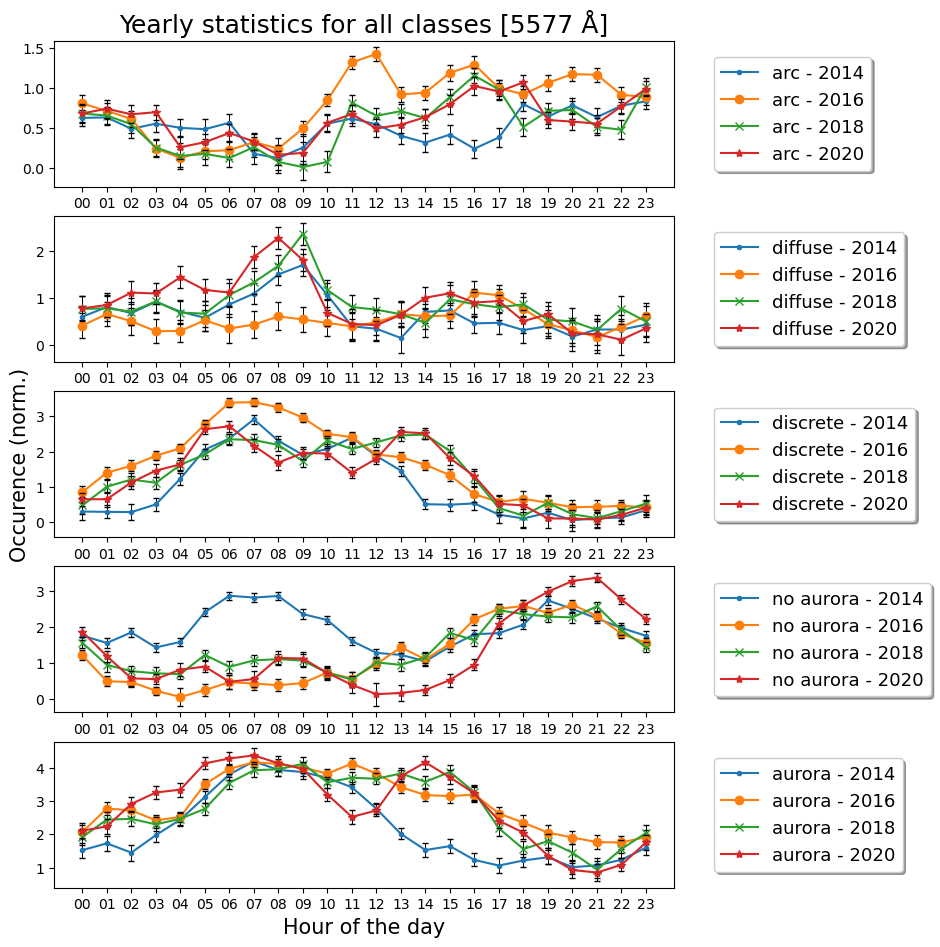
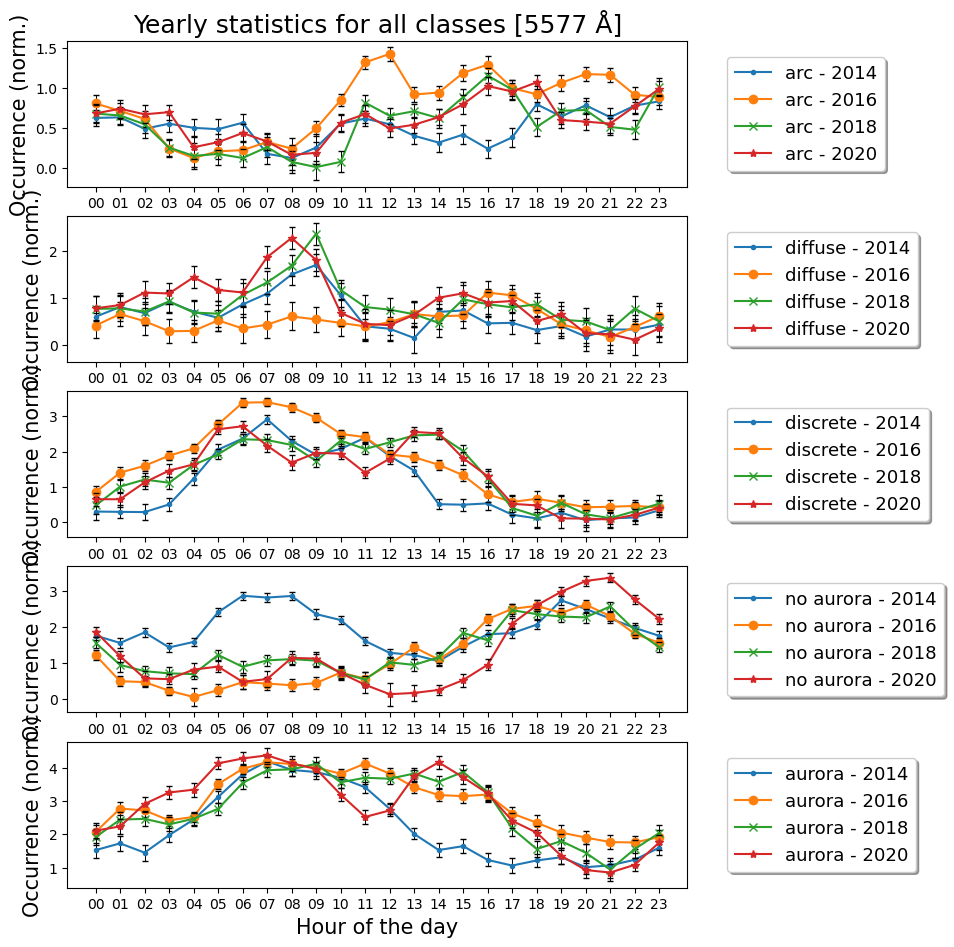
B4

diff --git a/stats_on_predictions.py b/stats_on_predictions.py
@@ -694,7 +694,7 @@ def sub_plots_Bz(year, wl, a_less, arc, diff, disc, neg, pos, error_list, T_Auro
     #plt.text(-19, 0.13, 'Max: {:.1f}, Min: {:.1f}'.format(np.max(pos[1][1]), np.min(neg[1][1])), fontsize = 17, color='C1')
     plt.axvline(x=0, ls='--', color='lightgrey')
     #plt.plot(hours, T_arc_N, shape, label='arc - '+year)
-    plt.ylabel(r"Occurence (norm.)", fontsize=22)    # 15
+    plt.ylabel(r"Occurrence (norm.)", fontsize=22)    # 15
     plt.ylim(-0.01, 0.30)
     plt.xticks(fontsize=19)
     plt.yticks(fontsize=19) # 11
@@ -725,7 +725,7 @@ def sub_plots_Bz(year, wl, a_less, arc, diff, disc, neg, pos, error_list, T_Auro
     plt.axvline(x=0, ls='--', color='lightgrey')
     #plot(hours, T_diff_N, 'diffuse', year, month=None, monthly=False)
     #plt.plot(hours, T_diff_N, shape, label='diffuse - '+year)
-    plt.ylabel(r"Occurence (norm.)", fontsize=22)    # 15
+    plt.ylabel(r"Occurrence (norm.)", fontsize=22)    # 15
     plt.ylim(-0.01, 0.30)
     plt.xticks(fontsize=19)
     plt.yticks(fontsize=19) # 11
@@ -754,7 +754,7 @@ def sub_plots_Bz(year, wl, a_less, arc, diff, disc, neg, pos, error_list, T_Auro
     plt.axvline(x=0, ls='--', color='lightgrey')
     #plot(hours, T_disc_N, 'discrete', year, month=None, monthly=False)
     #plt.plot(hours, T_disc_N, shape, label='discrete - '+year)
-    plt.ylabel(r"Occurence (norm.)", fontsize=22)    # 15
+    plt.ylabel(r"Occurrence (norm.)", fontsize=22)    # 15
     plt.ylim(-0.01, 0.30)
     plt.xticks(fontsize=19)
     plt.yticks(fontsize=19) # 11
@@ -785,7 +785,7 @@ def sub_plots_Bz(year, wl, a_less, arc, diff, disc, neg, pos, error_list, T_Auro
     #plot(hours, T_c_N, 'no aurora', year, month=None, monthly=False, axis=True)
     #plt.plot(hours, T_c_N, shape, label='no aurora - '+year)
     #plt.xlabel("Hour of the day", fontsize=13)
-    plt.ylabel(r"Occurence (norm.)", fontsize=22)    # 15
+    plt.ylabel(r"Occurrence (norm.)", fontsize=22)    # 15
     plt.ylim(-0.01, 0.30)
     plt.xticks(fontsize=19)
     plt.yticks(fontsize=19) # 11
@@ -1151,7 +1151,7 @@ def sub_plots(year, wl, hours, T_c_N, T_arc_N, T_diff_N, T_disc_N, error, T_Auro
     plt.plot(hours, T_arc_N, shape, label='arc - '+year)
     e = error[1]/2  # For 1.5 lim
     plt.errorbar(hours, T_arc_N, yerr=e, fmt='none', ecolor='k', elinewidth=0.7, capsize=2)
-    plt.ylabel(r"Occurence (norm.)", fontsize=15)
+    plt.ylabel(r"Occurrence (norm.)", fontsize=15)
     #plt.ylim(-0.2, 3)
     plt.legend(fontsize=13, bbox_to_anchor = (1.05, 0.95), shadow=True) #, ncol=2
     #plot(hours, T_arc_N, 'arc', year, month=None, monthly=False)
@@ -1160,7 +1160,7 @@ def sub_plots(year, wl, hours, T_c_N, T_arc_N, T_diff_N, T_disc_N, error, T_Auro
     #plot(hours, T_diff_N, 'diffuse', year, month=None, monthly=False)
     plt.plot(hours, T_diff_N, shape, label='diffuse - '+year)
     plt.errorbar(hours, T_diff_N, yerr=error[2], fmt='none', ecolor='k', elinewidth=0.7, capsize=2)
-    plt.ylabel(r"Occurence (norm.)", fontsize=15)
+    plt.ylabel(r"Occurrence (norm.)", fontsize=15)
     #plt.ylim(0, 4)
     plt.legend(fontsize=13, bbox_to_anchor = (1.05, 0.95), shadow=True)
 
@@ -1168,7 +1168,7 @@ def sub_plots(year, wl, hours, T_c_N, T_arc_N, T_diff_N, T_disc_N, error, T_Auro
     #plot(hours, T_disc_N, 'discrete', year, month=None, monthly=False)
     plt.plot(hours, T_disc_N, shape, label='discrete - '+year)
     plt.errorbar(hours, T_disc_N, yerr=error[3], fmt='none', ecolor='k', elinewidth=0.7, capsize=2)    # elinewidth=0.1,
-    plt.ylabel(r"Occurence (norm.)", fontsize=15)
+    plt.ylabel(r"Occurrence (norm.)", fontsize=15)
     #plt.ylim(0, 4)
     plt.legend(fontsize=13, bbox_to_anchor = (1.05, 0.95), shadow=True)
 
@@ -1177,7 +1177,7 @@ def sub_plots(year, wl, hours, T_c_N, T_arc_N, T_diff_N, T_disc_N, error, T_Auro
     plt.plot(hours, T_c_N, shape, label='no aurora - '+year)
     plt.errorbar(hours, T_c_N, yerr=error[0], fmt='none', ecolor='k', elinewidth=0.7, capsize=2)
     #plt.xlabel("Hour of the day", fontsize=13)
-    plt.ylabel(r"Occurence (norm.)", fontsize=15)
+    plt.ylabel(r"Occurrence (norm.)", fontsize=15)
     #plt.ylim(0, 4)
     plt.legend(fontsize=13, bbox_to_anchor = (1.05, 0.95), shadow=True)
 
@@ -1187,7 +1187,7 @@ def sub_plots(year, wl, hours, T_c_N, T_arc_N, T_diff_N, T_disc_N, error, T_Auro
         plt.plot(hours, T_Aurora_N, shape, label='aurora - '+year)
         plt.errorbar(hours, T_Aurora_N, yerr=error[4], fmt='none', ecolor='k', elinewidth=0.7, capsize=2)
         plt.xlabel("Hour of the day", fontsize=15)
-        plt.ylabel(r"Occurence (norm.)", fontsize=15)
+        plt.ylabel(r"Occurrence (norm.)", fontsize=15)
         #plt.ylim(0, 4.5)
         plt.legend(fontsize=13, bbox_to_anchor = (1.05, 0.95), shadow=True)
     else:
@@ -1383,8 +1383,8 @@ if __name__ == "__main__":
 
         # All 4 years, jan+nov+dec
         predicted_G_Full = r'C:\Users\Krist\Documents\ASI_json_files\AuroraFull_G_omni_mean_predicted_efficientnet-b3.json'
-        #container_Full = DatasetContainer.from_json(predicted_G_Full)
-        #print("len container Full: ", len(container_Full))
+        container_Full = DatasetContainer.from_json(predicted_G_Full)
+        print("len container Full: ", len(container_Full))
         wl = [r'5577 Å', r'5577 Å', r'5577 Å', r'5577 Å']
 
     else:
@@ -1458,13 +1458,11 @@ if __name__ == "__main__":
 
     if Green:
         print('Green')
-        Bz_distribution_plots(path=r'stats/Green/b3/', wl=wl[0])
+        #Bz_distribution_plots(path=r'stats/Green/b3/', wl=wl[0])
     else:
         print('Red')
-        Bz_distribution_plots(path=r'stats/Red/b3/', wl=wl[0], Green=False)
+        #Bz_distribution_plots(path=r'stats/Red/b3/', wl=wl[0], Green=False)
 
-
-    exit()
 
     # Check entries with equal label probability
     #weights_and_stuff(wl=wl[0][:4])
@@ -1472,7 +1470,7 @@ if __name__ == "__main__":
 
     # Make hour plots (line plots)
     # Yearly
-    N = 4
+    N = 5
 
     plt.figure(figsize=(8, 11)) # bredde, hoyde
     Hour_subplot(container=container_Full, year="2014", wl=wl[0], N=N, month=False)

diff --git a/stats_speed.py b/stats_speed.py
@@ -535,7 +535,7 @@ def sub_plots_Speed(year, wl, a_less, arc, diff, disc, bins, bins_width, error_l
     plt.plot(centers, heights, shape, label=year)
     plt.errorbar(centers, heights, xerr=err, fmt='none', ecolor='k', elinewidth=0.7, capsize=2)
     #plt.plot(bins[:-1], heights, shape, label="Diffuse")
-    plt.ylabel(r"Occurence (norm.)", fontsize=22)    # 15
+    plt.ylabel(r"Occurrence (norm.)", fontsize=22)    # 15
     plt.ylim(-0.01, 0.265)
     plt.xticks(fontsize=19)
     plt.yticks(fontsize=19) # 11
@@ -623,6 +623,7 @@ def Speed_stats(container, year, wl, year_plot=False, subplot=False):
         plt.title(r'Solar wind speed distribution [{}]'.format(wl) +'\n'+ r'Bins = {} km/s'.format(bins_width), fontsize=16)
         heights, bins = np.histogram(all, bins=bins, density=True) #, density=True
         unity_density = heights / heights.sum()
+        #unity_density = heights
         centers = 0.5*(bins[1:] + bins[:-1])
         #plt.plot(bins[:-1], unity_density, shape, label=year)
         err = list_arrays[4]
@@ -631,7 +632,7 @@ def Speed_stats(container, year, wl, year_plot=False, subplot=False):
         plt.errorbar(centers, unity_density, xerr=err, fmt='none', ecolor='k', elinewidth=0.7, capsize=2)
         plt.legend(fontsize=13)
         plt.xlabel(r"Solar wind speed [km/s]", fontsize=14)
-        plt.ylabel(r"Occurence (norm.)", fontsize=14)    # 15
+        plt.ylabel(r"Occurrence (norm.)", fontsize=14)    # 15
         plt.tight_layout()
         print(unity_density.sum())
 
@@ -682,7 +683,7 @@ def Speed_stats(container, year, wl, year_plot=False, subplot=False):
 
         plt.legend(fontsize=13)
         plt.xlabel(r"Solar wind speed [km/s]", fontsize=14)
-        plt.ylabel(r"Occurence (norm.)", fontsize=14)    # 15
+        plt.ylabel(r"Occurrence (norm.)", fontsize=14)    # 15
         #plt.ylim(-0.01, 0.30)
 
         plt.tight_layout()
@@ -693,7 +694,7 @@ if __name__ == "__main__":
 
     LABELS = ['aurora-less', 'arc', 'diffuse', 'discrete']
 
-    Green = False
+    Green = True
     if Green:
 
         # All 4 years, jan+nov+dec
@@ -748,9 +749,9 @@ if __name__ == "__main__":
                 #Speed_stats(container_D, container_N, years[i], wl)
                 #plt.savefig(path+r'Speed_plot_{}.png'.format(years[i]), bbox_inches="tight")
             if Green:
-                plt.savefig(path+r'Density_speed_year_plot.png', bbox_inches="tight")
+                plt.savefig(path+r'SW_speed_year_plot.png', bbox_inches="tight")
             else:
-                plt.savefig(path+r'Density_speed_year_plot_R.png', bbox_inches="tight")
+                plt.savefig(path+r'SW_speed_year_plot_R.png', bbox_inches="tight")
 
         elif subplot:
             plt.figure(figsize=(16, 13)) # bredde, hoyde. 11, 8
@@ -758,10 +759,10 @@ if __name__ == "__main__":
             for i in range(len(years)):
                 Speed_stats(container_Full, years[i], wl, subplot=True)
             if Green:
-                plt.savefig(path+r'Density_speed_subplot.png', bbox_inches="tight")
+                plt.savefig(path+r'SW_speed_subplot.png', bbox_inches="tight")
                 #plt.savefig(path+r'Density_speed_subplot_141620.png', bbox_inches="tight")
             else:
-                plt.savefig(path+r'Density_speed_subplot_R.png', bbox_inches="tight")
+                plt.savefig(path+r'SW_speed_subplot_R.png', bbox_inches="tight")
                 #plt.savefig(path+r'Density_speed_subplot_141620_R.png', bbox_inches="tight")
 
         else:
@@ -770,9 +771,9 @@ if __name__ == "__main__":
                 #Speed_stats(container_D, container_N, years[i], wl)
                 #plt.savefig(path+r'Speed_plot_{}.png'.format(years[i]), bbox_inches="tight")
                 if Green:
-                    plt.savefig(path+r'Density_speed_plot_{}.png'.format(years[i]), bbox_inches="tight")
+                    plt.savefig(path+r'SW_speed_plot_{}.png'.format(years[i]), bbox_inches="tight")
                 else:
-                    plt.savefig(path+r'Density_speed_plot_{}_R.png'.format(years[i]), bbox_inches="tight")
+                    plt.savefig(path+r'SW_speed_plot_{}_R.png'.format(years[i]), bbox_inches="tight")
                 #plt.show()
 
 
@@ -781,9 +782,9 @@ if __name__ == "__main__":
         print('Green')
         Speed_distribution_plots(path=r'stats/Green/b3/Speed/', wl=wl[0], years_plot=True)
         Speed_distribution_plots(path=r'stats/Green/b3/Speed/', wl=wl[0])
-        #Speed_distribution_plots(path=r'stats/Green/b3/Speed/', wl=wl[0], subplot=True)
+        Speed_distribution_plots(path=r'stats/Green/b3/Speed/', wl=wl[0], subplot=True)
     else:
         print('Red')
         Speed_distribution_plots(path=r'stats/Red/b3/Speed/', wl=wl[0], Green=False, years_plot=True)
         Speed_distribution_plots(path=r'stats/Red/b3/Speed/', wl=wl[0], Green=False)
-        #Speed_distribution_plots(path=r'stats/Red/b3/Speed/', wl=wl[0], Green=False, subplot=True)
+        Speed_distribution_plots(path=r'stats/Red/b3/Speed/', wl=wl[0], Green=False, subplot=True)

diff --git a/train_efficientnet.py b/train_efficientnet.py
@@ -202,6 +202,13 @@ def train(model, json_file, model_name, mode, w_sampler=False, no_weights=False,
 json_file = 'datasets/Full_aurora_ml_train_valid_set.json' # Train/validation file
 #test_file = 'datasets/Full_aurora_ml_test_set.json'
 
+MN = model_name[4]
+model = EfficientNet.from_name(model_name=MN, num_classes=4, in_channels=1)
+train(model, json_file, MN, mode='bilinear', w_sampler=False, ep=125, batch_size_train=16, learningRate=0.01, stepSize=50, g=0.1)
+
+exit()
+
+
 #model = EfficientNet.from_name(model_name=model_name[2], num_classes=4, in_channels=1)
 #train(model, json_file, model_name[2], ep=350, batch_size_train=16, learningRate=0.01, stepSize=300, g=1.1)
 
